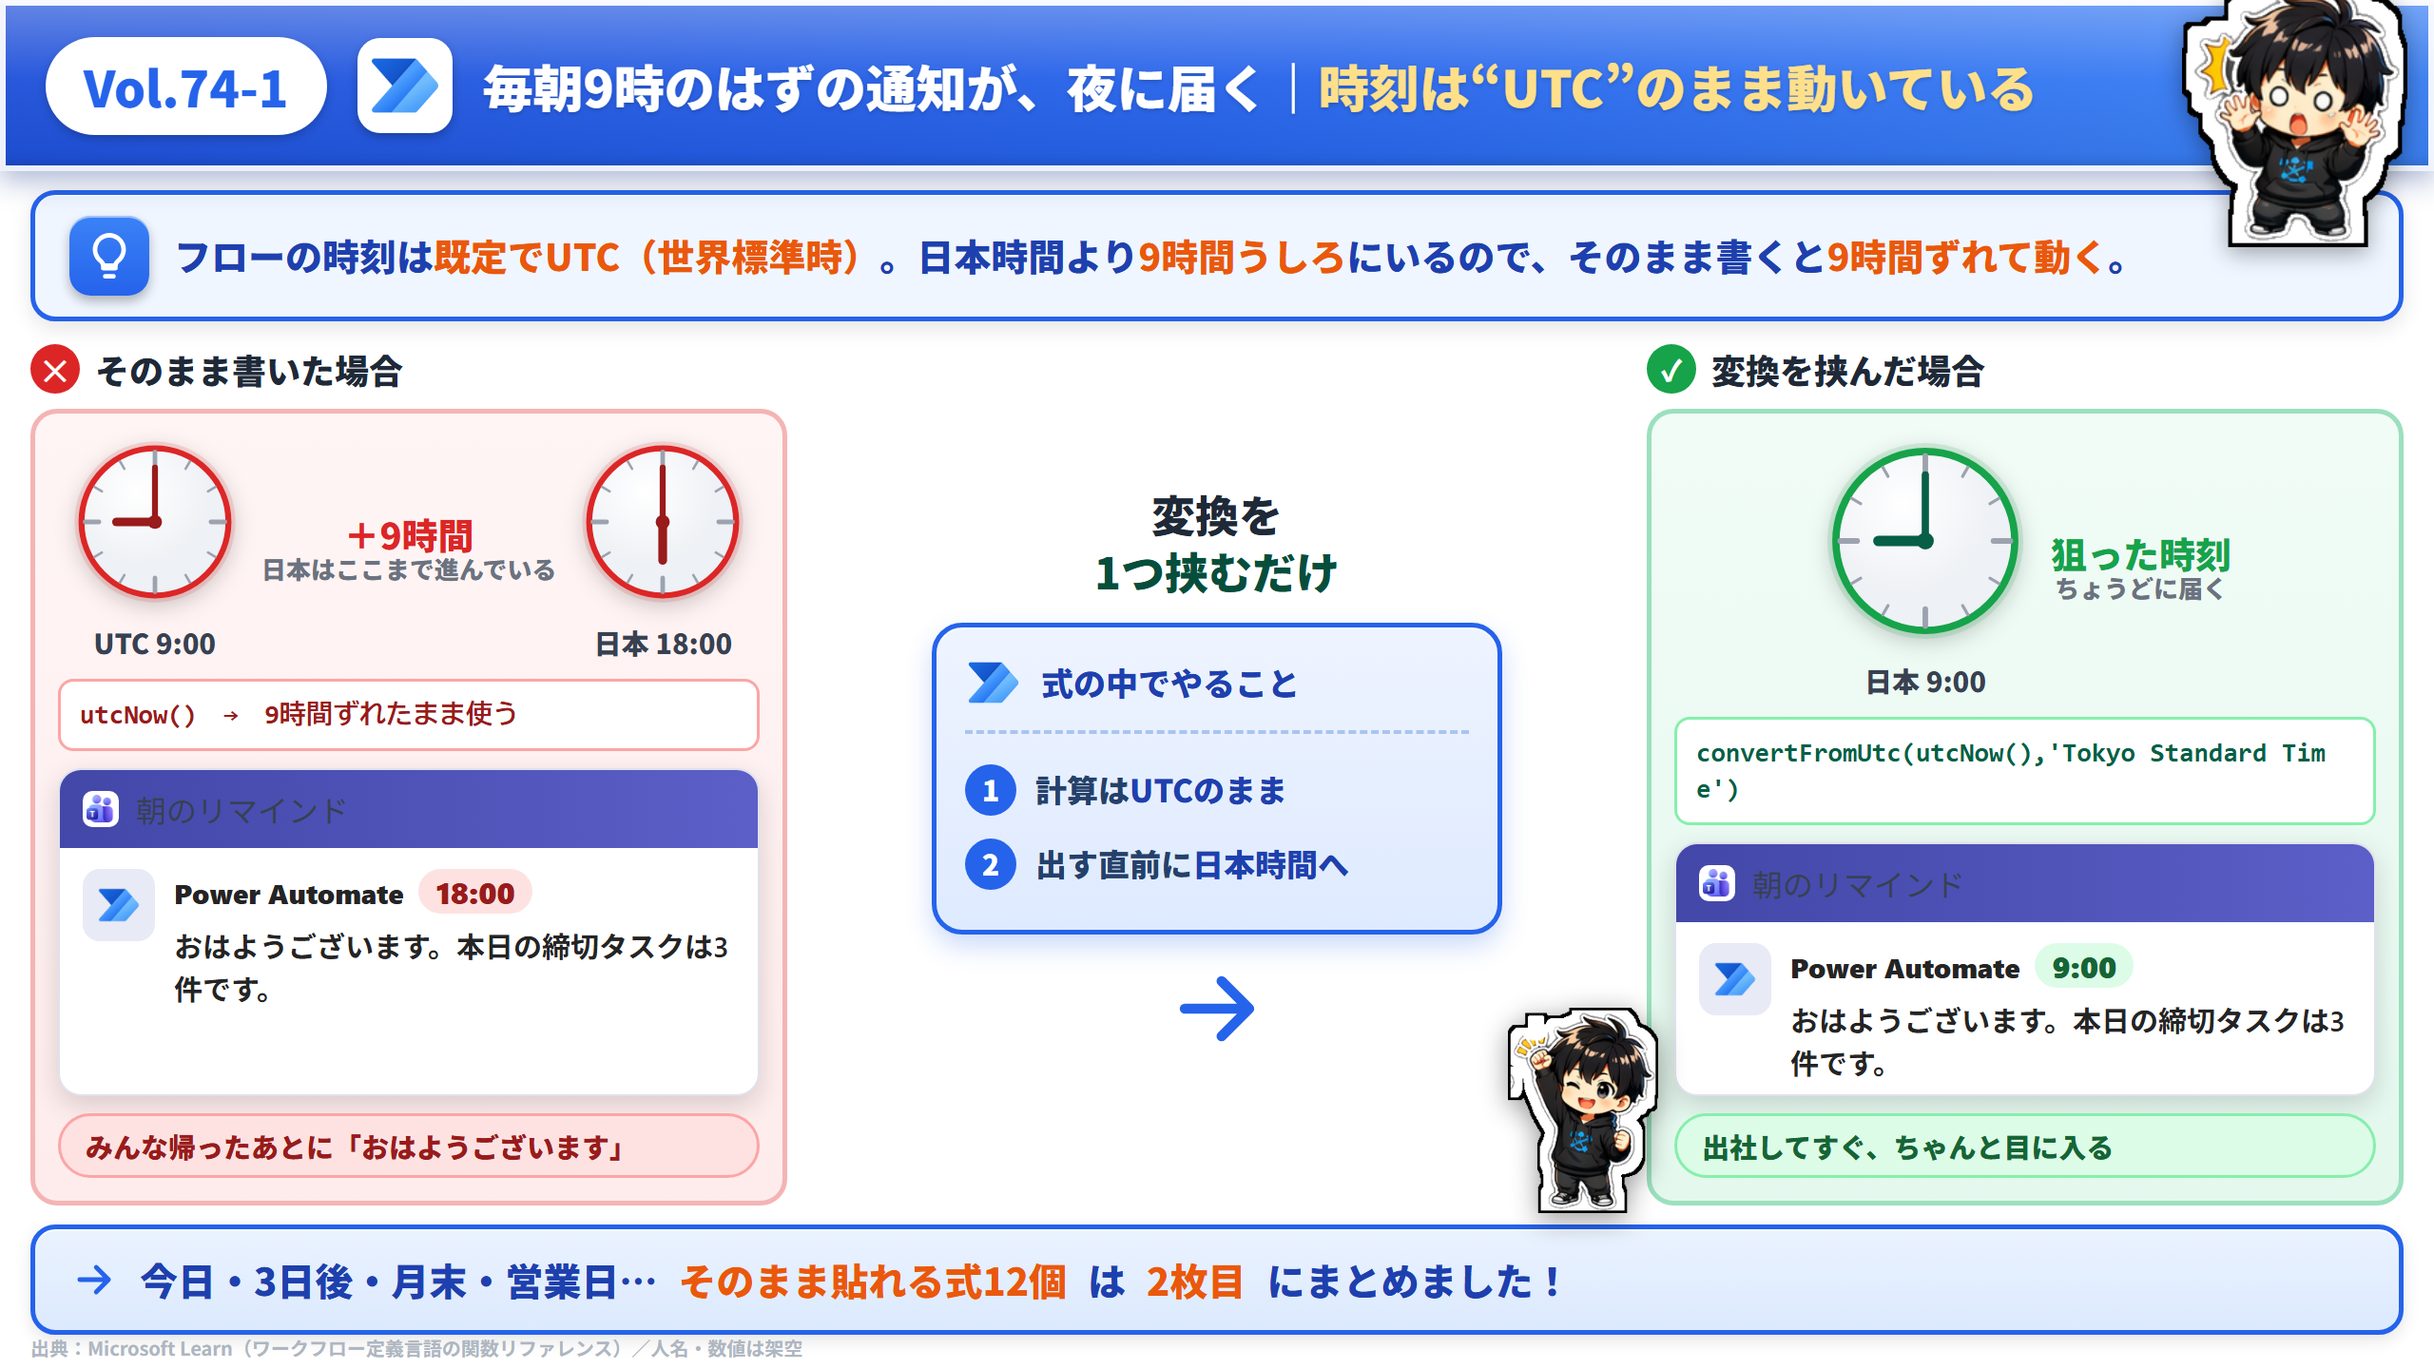
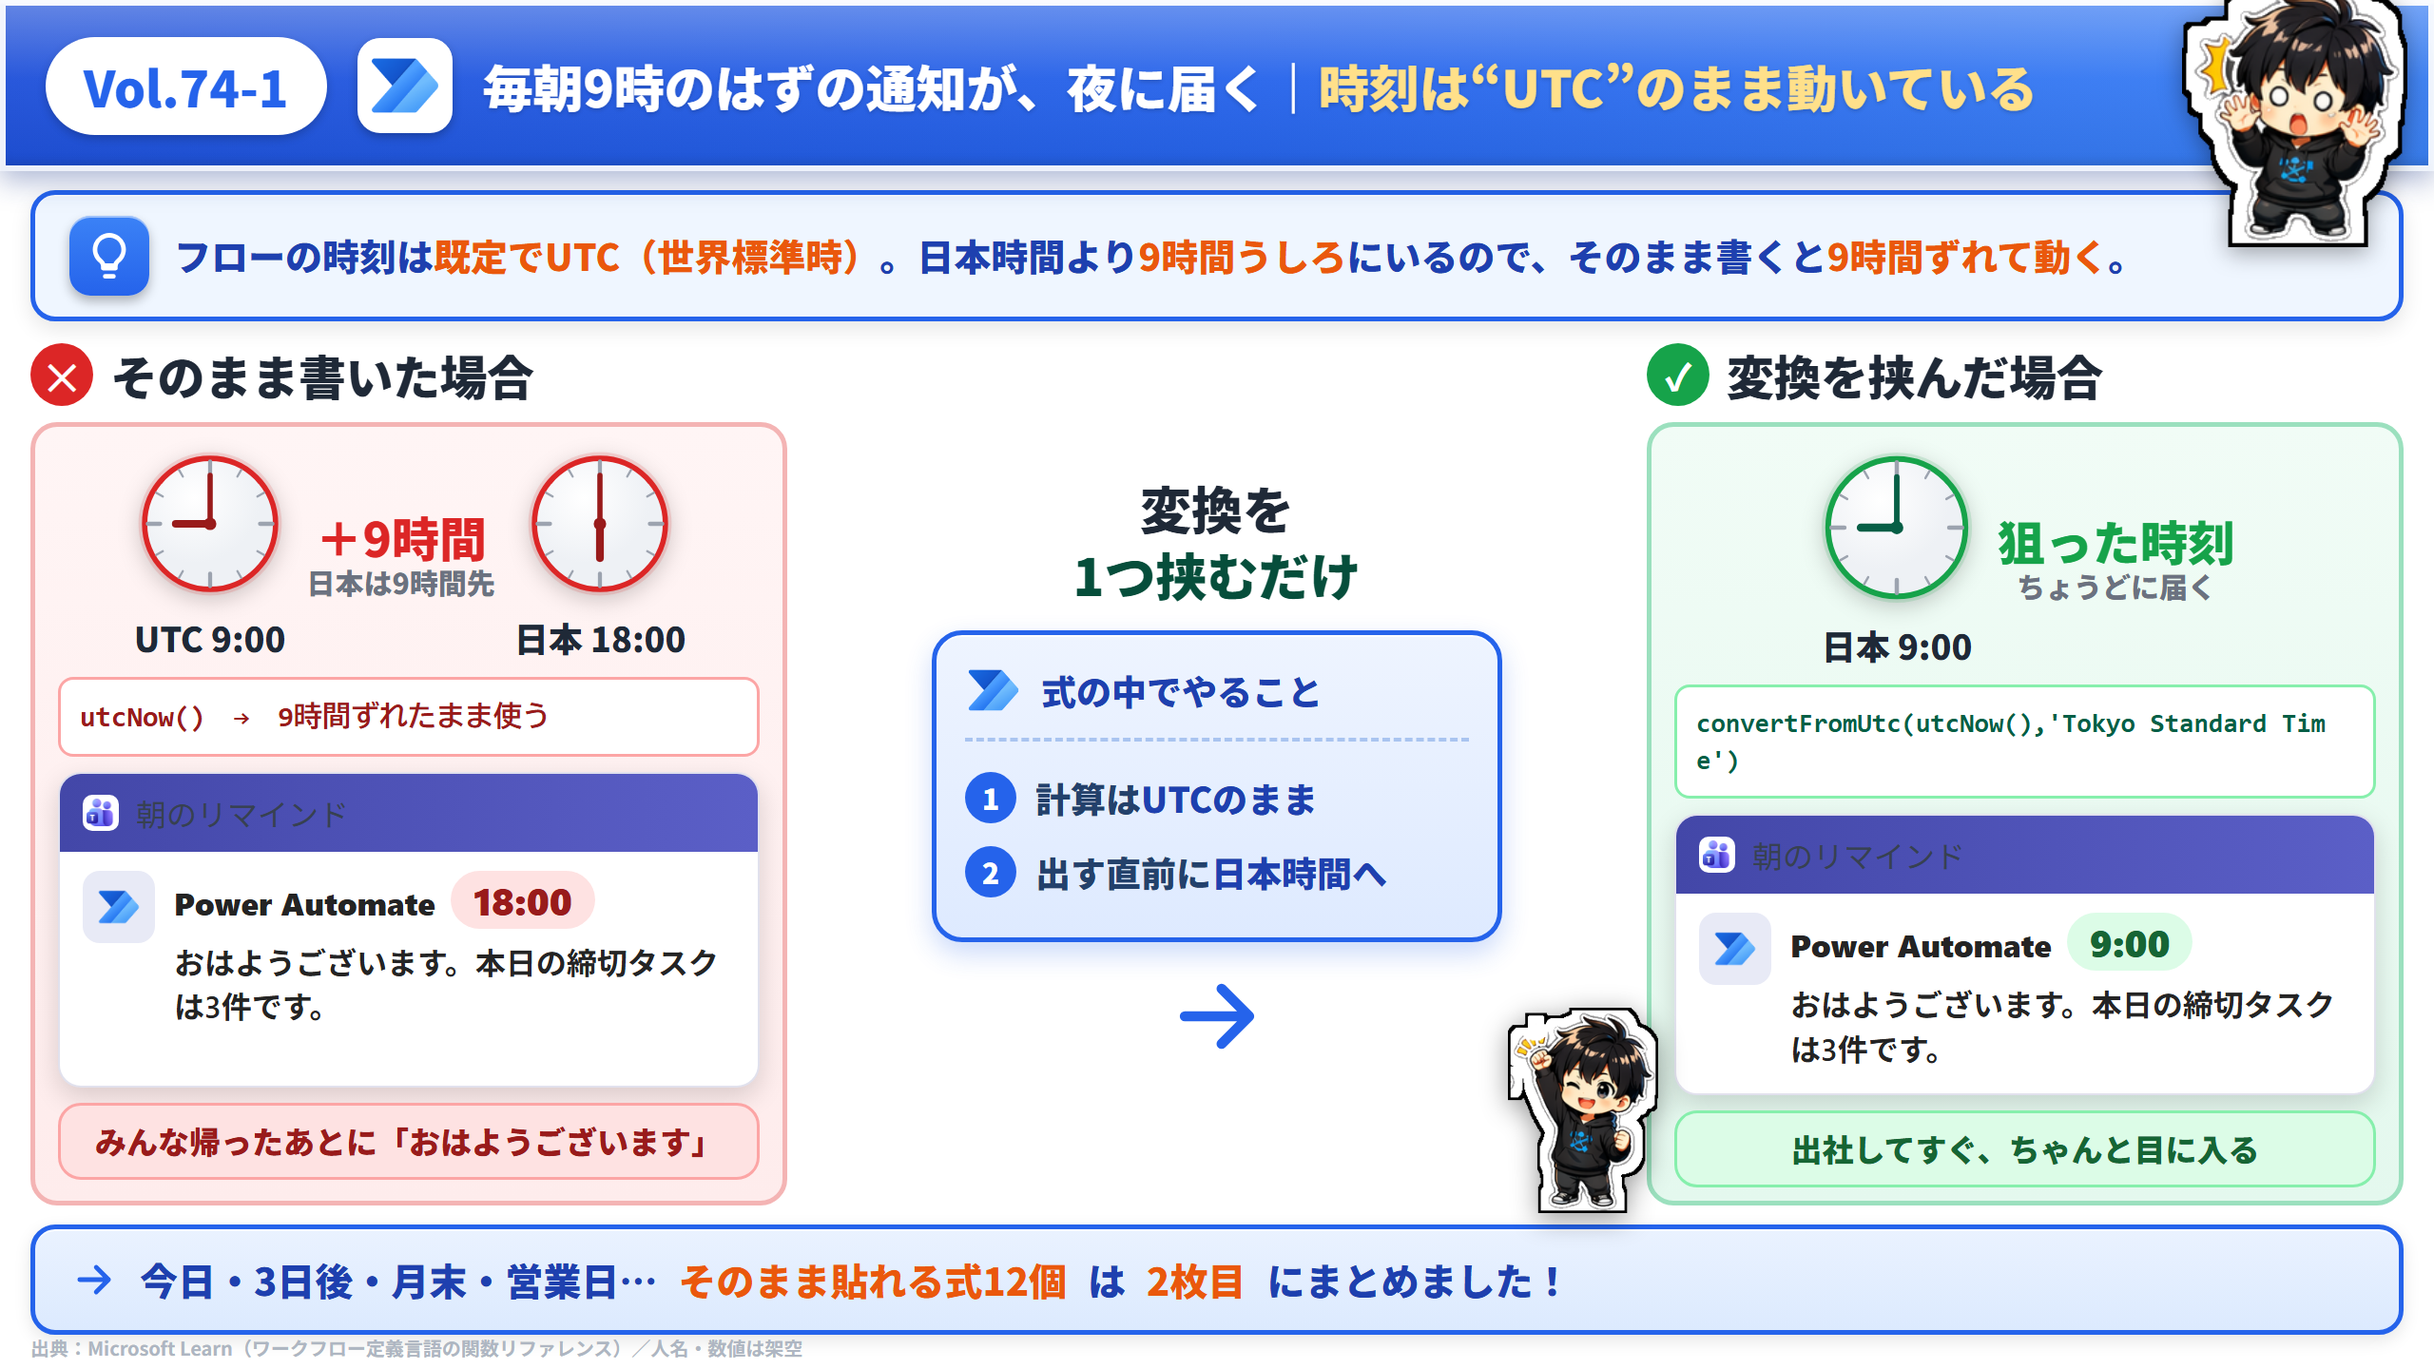
レイアウト型カタログを追加し、Vol.74-1の見せ場を大きくした
- assets/x/PATTERNS.md＝固定する要素（ブランド軸）と回す型A〜Fを整理。
  型ごとに「いつ使う・骨格・必須・過去例」を書き、作る前のチェックも付けた
- 対比の見出し（そのまま書いた場合／変換を挟んだ場合）を18→25pxに拡大。
  時計・通知・スタンプも底上げし、空白を文字で埋めた
- 見切れを実測（マスコットの意図的なはみ出し以外はゼロ）

diff --git a/assets/x/html/vol-74/index.html b/assets/x/html/vol-74/index.html
@@ -32,45 +32,45 @@
   .concl .txt{font-weight:800;font-size:19.5px;color:var(--blue-dark);line-height:1.38;padding-right:96px;}
   .concl .txt b{color:var(--orange);}
 
-  .stage{flex:1 1 auto;margin:12px 16px 0;display:flex;align-items:stretch;gap:0;min-height:0;}
+  .stage{flex:1 1 auto;margin:10px 16px 0;display:flex;align-items:stretch;gap:0;min-height:0;}
 
   /* パネル共通 */
   .pz{flex:0 0 398px;display:flex;flex-direction:column;min-height:0;}
-  .pzhd{font-weight:900;font-size:18px;color:var(--ink);margin-bottom:8px;display:flex;align-items:center;gap:8px;}
-  .pzhd .b{flex:0 0 auto;width:26px;height:26px;border-radius:50%;color:#fff;font-weight:900;font-size:15px;display:flex;align-items:center;justify-content:center;}
+  .pzhd{font-weight:900;font-size:25px;color:var(--ink);margin-bottom:7px;display:flex;align-items:center;gap:9px;letter-spacing:-.01em;}
+  .pzhd .b{flex:0 0 auto;width:33px;height:33px;border-radius:50%;color:#fff;font-weight:900;font-size:19px;display:flex;align-items:center;justify-content:center;}
   .pzhd.ng .b{background:var(--red);} .pzhd.ok .b{background:var(--green);}
-  .panel{flex:1;border-radius:14px;padding:11px 12px 12px;display:flex;flex-direction:column;gap:9px;min-height:0;position:relative;overflow:hidden;}
+  .panel{flex:1;border-radius:14px;padding:10px 12px 11px;display:flex;flex-direction:column;gap:8px;min-height:0;position:relative;overflow:hidden;}
   .panel.ng{background:linear-gradient(180deg,#FFF5F5,#FEECEC);border:2.5px solid #F4B4B4;}
   .panel.ok{background:linear-gradient(180deg,#F1FCF6,#E4F8EE);border:2.5px solid #9BE0BE;}
 
   /* 時計 */
   .clocks{display:flex;align-items:center;justify-content:center;gap:10px;flex:0 0 auto;}
   .clock{text-align:center;}
-  .clock svg{width:92px;height:92px;filter:drop-shadow(0 3px 6px rgba(0,0,0,.22));}
-  .clock .cl{font-weight:900;font-size:14.5px;margin-top:2px;color:var(--gray);}
-  .gap{font-weight:900;font-size:19px;color:var(--red);text-align:center;line-height:1.15;}
-  .gap span{display:block;font-size:13px;color:var(--weak);}
-  .clock.big svg{width:112px;height:112px;}
+  .clock svg{width:82px;height:82px;filter:drop-shadow(0 3px 6px rgba(0,0,0,.22));}
+  .clock .cl{font-weight:900;font-size:18px;margin-top:1px;color:var(--ink);}
+  .gap{font-weight:900;font-size:25px;color:var(--red);text-align:center;line-height:1.12;}
+  .gap span{display:block;font-size:15px;color:var(--weak);margin-top:2px;}
+  .clock.big svg{width:86px;height:86px;}
 
   /* Teams通知モック */
-  .teams{background:#fff;border:1px solid #E1E1ED;border-radius:12px;box-shadow:0 5px 14px rgba(0,0,0,.15);overflow:hidden;font-family:'Segoe UI','Noto Sans JP',sans-serif;flex:1;display:flex;flex-direction:column;min-height:0;}
+  .teams{background:#fff;border:1px solid #E1E1ED;border-radius:12px;box-shadow:0 5px 14px rgba(0,0,0,.15);overflow:hidden;font-family:'Segoe UI','Noto Sans JP',sans-serif;flex:1 0 auto;display:flex;flex-direction:column;min-height:136px;}
   .teams-h{flex:0 0 auto;display:flex;align-items:center;gap:9px;padding:9px 12px;background:linear-gradient(90deg,#4347A8,#5B5FC7);}
   .teams-h img{width:19px;height:19px;object-fit:contain;background:#fff;border-radius:5px;padding:2px;}
-  .teams-h span{font-weight:800;font-size:14px;color:#fff;}
-  .msg{display:flex;gap:10px;padding:11px 12px;flex:1;align-items:flex-start;}
+  .teams-h span{font-weight:800;font-size:15.5px;color:#fff;}
+  .msg{display:flex;gap:10px;padding:10px 12px 12px;flex:1;align-items:flex-start;}
   .msg .av{flex:0 0 auto;width:38px;height:38px;border-radius:9px;background:#E8EAF6;display:flex;align-items:center;justify-content:center;}
   .msg .av img{width:24px;height:24px;object-fit:contain;}
   .msg .mc{flex:1;min-width:0;}
   .msg .mtop{display:flex;align-items:baseline;gap:8px;flex-wrap:wrap;}
-  .msg .mn{font-weight:800;font-size:14.5px;color:#242424;}
-  .msg .mt{font-weight:900;font-size:16px;padding:1px 9px;border-radius:999px;}
+  .msg .mn{font-weight:800;font-size:16.5px;color:#242424;}
+  .msg .mt{font-weight:900;font-size:20px;padding:2px 12px;border-radius:999px;}
   .mt.bad{background:#FEE2E2;color:#991B1B;} .mt.good{background:#DCFCE7;color:#166534;}
-  .msg .mbody{margin-top:6px;font-size:15px;color:#242424;line-height:1.5;font-weight:600;}
-  .stamp{align-self:stretch;font-weight:900;font-size:14.5px;border-radius:999px;padding:5px 13px;}
+  .msg .mbody{margin-top:6px;font-size:16px;color:#242424;line-height:1.45;font-weight:600;}
+  .stamp{align-self:stretch;font-weight:900;font-size:16.5px;border-radius:12px;padding:8px 12px;text-align:center;line-height:1.3;}
   .stamp.bad{background:#FEE2E2;color:#991B1B;border:1.5px solid #FCA5A5;}
   .stamp.good{background:#DCFCE7;color:#166534;border:1.5px solid #86EFAC;}
 
-  .code{font-family:'Roboto Mono',Consolas,monospace;font-size:14px;font-weight:700;border-radius:8px;padding:8px 10px;line-height:1.35;word-break:break-all;}
+  .code{font-family:'Roboto Mono',Consolas,monospace;font-size:15px;font-weight:700;border-radius:8px;padding:9px 10px;line-height:1.4;word-break:break-all;}
   .code.bad{background:#fff;border:1.5px solid #FCA5A5;color:#991B1B;}
   .code.good{background:#fff;border:1.5px solid #86EFAC;color:#065F46;}
 
@@ -78,12 +78,12 @@
 
   /* 中央 */
   .mzone{flex:1;display:flex;flex-direction:column;align-items:center;justify-content:center;padding:0 8px;position:relative;}
-  .mzbig{font-weight:900;font-size:23px;color:var(--ink);text-align:center;line-height:1.3;}
+  .mzbig{font-weight:900;font-size:27px;color:var(--ink);text-align:center;line-height:1.3;}
   .mzbig b{color:var(--green-dark);}
   .engine{width:100%;max-width:300px;background:linear-gradient(180deg,#EEF4FF,#DEEAFF);border:2.5px solid #2563EB;border-radius:16px;padding:14px 15px 15px;box-shadow:0 6px 14px rgba(37,99,235,.24),inset 0 1px 0 rgba(255,255,255,.7);margin:12px 0 10px;}
-  .eng-top{display:flex;align-items:center;gap:10px;font-weight:900;font-size:17px;color:var(--blue-dark);padding-bottom:10px;margin-bottom:10px;border-bottom:2px dashed #A9C4F0;}
+  .eng-top{display:flex;align-items:center;gap:10px;font-weight:900;font-size:18.5px;color:var(--blue-dark);padding-bottom:10px;margin-bottom:10px;border-bottom:2px dashed #A9C4F0;}
   .eng-top img{width:30px;height:30px;object-fit:contain;}
-  .eng-li{display:flex;align-items:center;gap:10px;font-weight:800;font-size:16.5px;color:#23416B;padding:6px 0;line-height:1.3;}
+  .eng-li{display:flex;align-items:center;gap:10px;font-weight:800;font-size:18.5px;color:#23416B;padding:6px 0;line-height:1.3;}
   .eng-li .sn{flex:0 0 auto;width:27px;height:27px;border-radius:50%;background:#2563EB;color:#fff;font-size:15px;font-weight:900;display:flex;align-items:center;justify-content:center;}
   .eng-li b{color:#1E40AF;}
   .bigarrow{width:58px;height:58px;color:var(--blue);}
@@ -144,7 +144,7 @@ document.getElementById('slide').innerHTML=`
       <div class="panel ng">
         <div class="clocks">
           <div class="clock">${clock(9,0,'bad')}<div class="cl">UTC 9:00</div></div>
-          <div class="gap">＋9時間<span>日本はここまで進んでいる</span></div>
+          <div class="gap">＋9時間<span>日本は9時間先</span></div>
           <div class="clock">${clock(18,0,'bad')}<div class="cl">日本 18:00</div></div>
         </div>
         <div class="code bad">utcNow()　→　9時間ずれたまま使う</div>
@@ -180,7 +180,7 @@ document.getElementById('slide').innerHTML=`
           <div class="clock big">${clock(9,0,'good')}<div class="cl">日本 9:00</div></div>
           <div class="gap" style="color:#16A34A">狙った時刻<span>ちょうどに届く</span></div>
         </div>
-        <div class="code good">convertFromUtc(utcNow(),'Tokyo Standard Time')</div>
+        <div class="code good" style="font-size:14px">convertFromUtc(utcNow(),'Tokyo Standard Time')</div>
         <div class="teams">
           <div class="teams-h"><img src="${A}icons/pa_teams.png" alt="">朝のリマインド</div>
           <div class="msg">

diff --git a/assets/x/PATTERNS.md b/assets/x/PATTERNS.md
@@ -1,0 +1,88 @@
+# X技術Tips レイアウト型カタログ
+
+同じ骨組みが続くと「テンプレの色替え」に見えて飽きられる。
+かといって毎回ゼロから考えると品質がぶれる。そこで **固定するもの** と **回すもの** を分けておく。
+
+ネタが決まったら、まず下の「どれを選ぶか」で型を決めてから作り始める。
+
+---
+
+## 固定するもの（ブランド軸・毎回同じ）
+
+これは変えない。シリーズだと一目で分かるための記号。
+
+| 要素 | 中身 |
+|---|---|
+| タイトルバー | 青グラデ90px／`Vol.NN-1` の白ピル／PAロゴ／タイトル27px（後半を `#FFE08A` でハイライト）／右にマスコット（下にはみ出す） |
+| 結論バー（concl） | タイトル直下。青枠＋電球チップ＋19px太字で「この回の要点1文」 |
+| 注意帯 or 次回誘導 | 1枚目＝「作り方は2枚目へ」の青バー／2枚目＝「⚠ 使う前に確認」のオレンジ帯 |
+| 出典 | 左下に小さく「出典：Microsoft Learn」。実機確認したものはその旨も |
+| 人名 | 架空（山田太郎・佐藤花子・鈴木一郎…）。実名は使わない |
+
+---
+
+## 回すもの（レイアウト型・ネタに合わせて選ぶ）
+
+### A. Before / After 2パネル
+**いつ使う**：困りごとが「直る」ネタ。ズレ・手戻り・地獄からの解放。
+**骨格**：左パネル（✕・赤系）｜中央エンジンカード＋矢印｜右パネル（✓・緑系）
+**必須**：左右の見出しを**25px以上**で対にする（例「そのまま書いた場合／変換を挟んだ場合」）。左右で同じ実画面モックを並べ、**変わったのは1か所だけ**にする（時刻・色・行）。
+**過去例**：Vol.65 休み明け受信トレイ、Vol.73 Excel集計、**Vol.74 日付の式**
+
+### B. 流れ3列（①②③）
+**いつ使う**：3ステップで説明が終わるネタ。「〜すると→〜が起きて→〜になる」
+**骨格**：3列カード。各列の頭に丸番号、上に情景SVG、下に実画面モック
+**必須**：見出しは動詞で具体的に（「①打つ」ではなく「①合言葉を入力する」）。各列に「何が起きているか」の補足キャプション。
+**過去例**：Vol.63 熱中症アラート、Vol.66 QR備品、Vol.67 資料の鮮度
+
+### C. 主役モック どーん
+**いつ使う**：出てくる成果物そのものが驚きになるネタ（PDF・カード・自動生成物）
+**骨格**：生成物を画面の6割で大きく1つ。周りに小さく作り方の要点
+**必須**：生成物は「本物にしか見えない」精度で。周辺の説明は短く。
+**過去例**：Vol.61 書類PDF、Vol.42 アダプティブカード
+
+### D. 会話スレッド型
+**いつ使う**：人のやり取りの中で仕組みが動くネタ。Teams・チャット・DM
+**骨格**：左にTeams会話（2〜3人）｜中央エンジン｜右に台帳やカード
+**必須**：会話は**2〜3人**で自然に。ボットの発言と人の発言を見分けられるように。
+**過去例**：Vol.45 スタンプでナレッジ収集（お手本）、Vol.57 報連相カード
+
+### E. 早見表・比較表
+**いつ使う**：チートシート、境界線、対応表。**保存される型**。
+**骨格**：左に実画面モック1つ（どこに貼るか）｜右に一覧（2列×6行くらい）
+**必須**：表だけにしない。**必ず実画面モックを1つ**置いて「どこで使うか」を示す。重要な行は色を変える。
+**過去例**：Vol.46 無料とプレミアムの境界、Vol.54/55 Copilot、**Vol.74-2 日付の式12個**
+
+### F. 紙芝居4コマ
+**いつ使う**：時間の流れやストーリーが必要なネタ。仕込み→放置→発火→結果
+**骨格**：4コマを横または2×2で
+**必須**：コマごとに時刻や日付を入れて「時間が経った」ことを見せる。
+**過去例**：まだ無い（次に試す枠）
+
+---
+
+## 文字サイズの下限（2026-07-22 指摘を反映）
+
+**見せ場は大きく。余白は文字で埋める。**「空いたから余白のまま」は不可。
+
+| 場所 | 下限 |
+|---|---|
+| 左右パネルの見出し（対比の要） | **25px** |
+| 結論バー | 19px |
+| 中央の大きい一言 | 27px |
+| 手順・エンジンカードの行 | 18.5px |
+| 実画面モックの本文 | 16px |
+| モックの見出し・ラベル | 15.5px |
+| 注意帯・補足 | 14.5px |
+
+要素が入り切らない場合は、**文字を小さくするのではなく**、飾り（時計・アイコン）のサイズを落とすか、モックの行数を減らす。
+
+---
+
+## 作る前のチェック
+
+1. 型はどれか（A〜F）。前回・前々回と同じ型になっていないか
+2. 一目で情景が浮かぶ絵があるか（モックとテキストだけになっていないか）
+3. 見せ場の文字が25px以上あるか
+4. 空白が残っていないか
+5. 実測で見切れゼロか（`measure.html` で `scrollHeight-clientHeight` を全要素チェック。マスコットの意図的なはみ出しだけが残る状態が正解）
